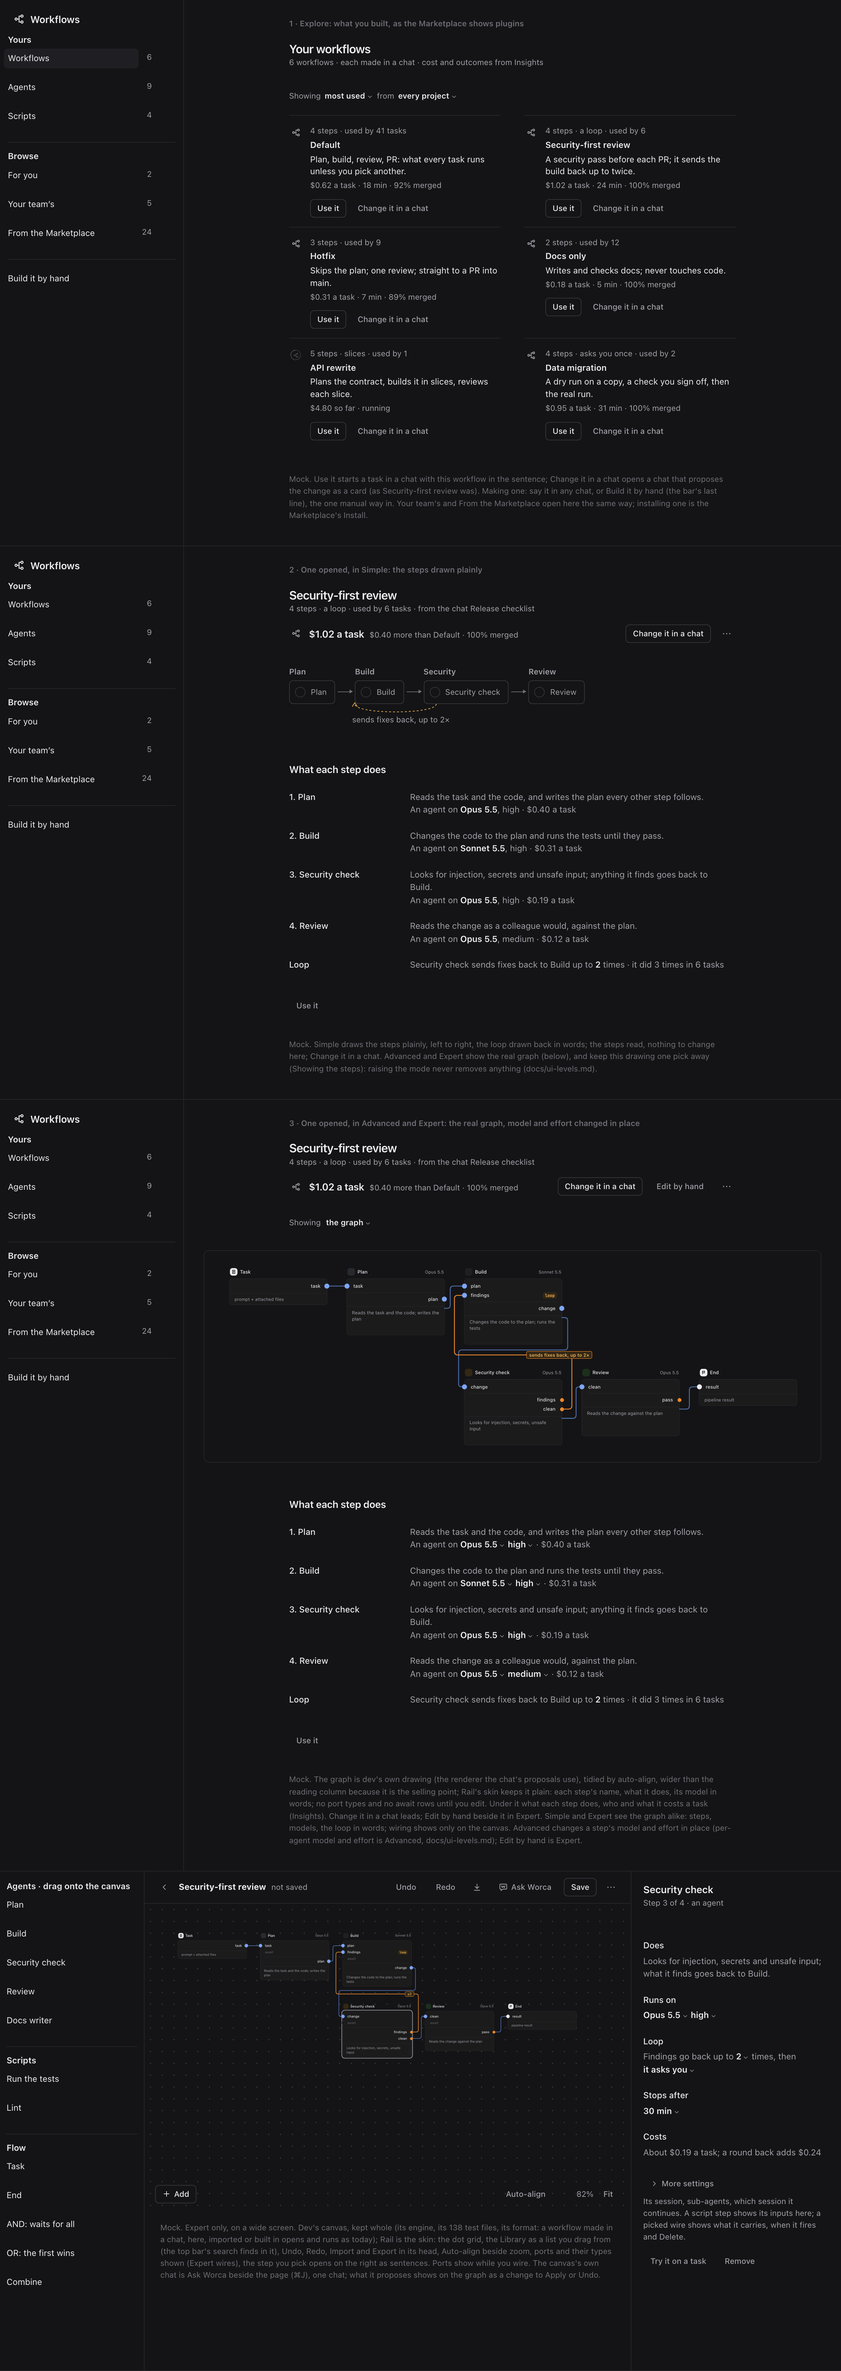
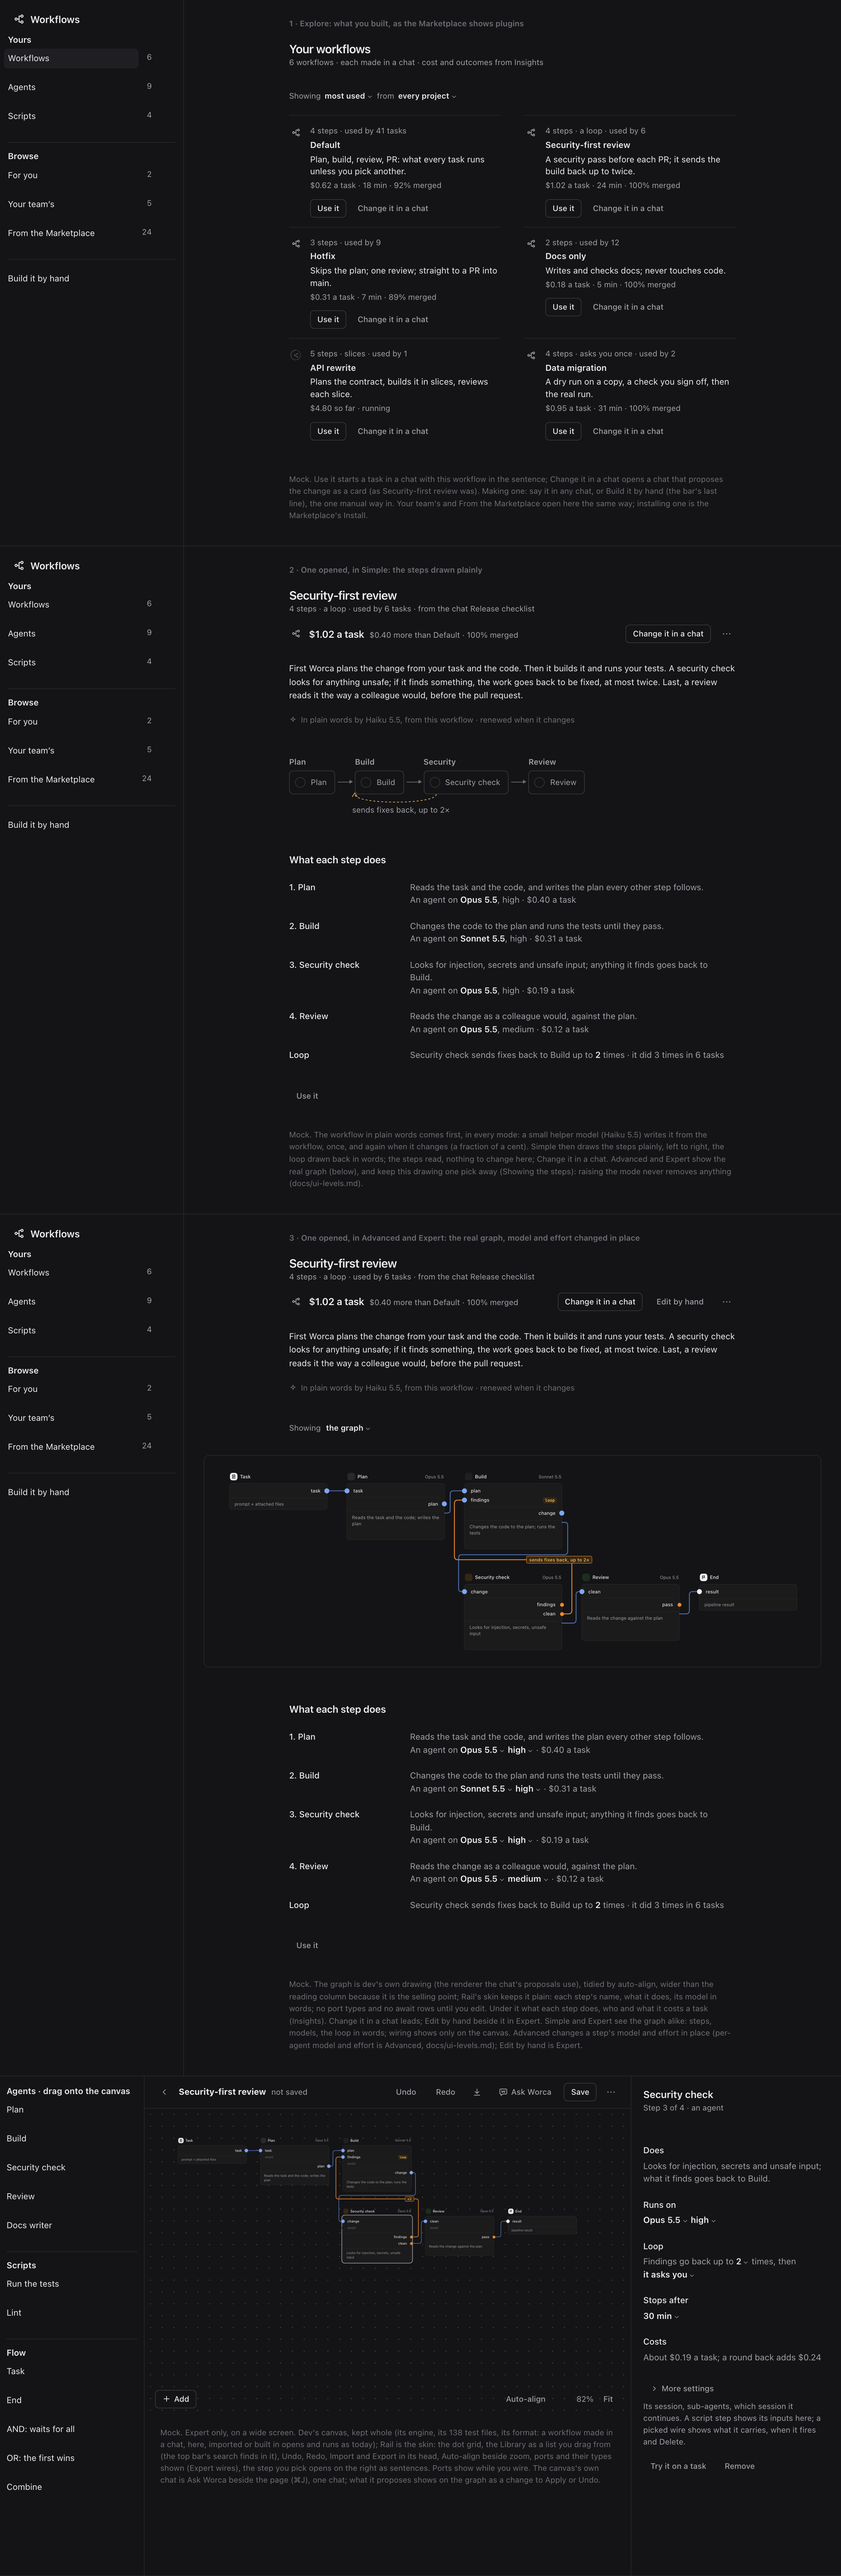
Wave 3: every workflow reads first in plain words, written by Haiku 5.5 from the workflow

diff --git a/plans/rail/mocks/wave-3/workflows-2.html b/plans/rail/mocks/wave-3/workflows-2.html
@@ -37,6 +37,7 @@
   .flow .wg-stage + .wg-stage::after{content:'';position:absolute;left:-8px;top:35px;border:3.5px solid transparent;border-left:5px solid var(--ink-3);}
   .flow .loop{position:absolute;bottom:2px;font-size:var(--fs-meta);color:var(--ink-2);}
   .flow .loop svg{position:absolute;bottom:16px;left:0;overflow:visible;}
+  .story{margin:14px 0 4px;font-size:var(--fs-body);line-height:1.6;color:var(--ink);} .story-by{margin:0 0 10px;font-size:var(--fs-meta);color:var(--ink-3);display:flex;gap:6px;align-items:center;}
   .tog{display:flex;align-items:center;gap:8px;margin:18px 0 0;font-size:var(--fs-meta);color:var(--ink-2);}
   .fr.ed{grid-template-columns:220px 1fr 320px;}
   .ed-top{display:flex;align-items:center;gap:8px;padding:10px 16px;border-bottom:1px solid var(--line);font-size:var(--fs-meta);color:var(--ink-2);}
@@ -75,15 +76,17 @@
   const flow = `<div class="flow">${R.workflowGraph({ label: 'Security-first review', stages: [
     { label: 'Plan', nodes: [{ key: 'p', name: 'Plan', state: 'next' }] }, { label: 'Build', nodes: [{ key: 'b', name: 'Build', state: 'next' }] },
     { label: 'Security', nodes: [{ key: 's', name: 'Security check', state: 'next' }] }, { label: 'Review', nodes: [{ key: 'r', name: 'Review', state: 'next' }] }] })}<span class="loop" style="left:96px"><svg width="132" height="20" aria-hidden="true"><path d="M128 2 C128 18 4 18 4 2" fill="none" stroke="var(--amber-ink)" stroke-dasharray="3 3"/><path d="M0 6 L4 0 L8 6" fill="none" stroke="var(--amber-ink)"/></svg>sends fixes back, up to 2×</span></div>`;
+  // the workflow in plain words: written by a small helper model from the workflow itself, renewed when it changes
+  const story = `<p class="story">First Worca plans the change from your task and the code. Then it builds it and runs your tests. A security check looks for anything unsafe; if it finds something, the work goes back to be fixed, at most twice. Last, a review reads it the way a colleague would, before the pull request.</p><p class="story-by">${R.icon('sparkle', 12)} In plain words by Haiku 5.5, from this workflow · renewed when it changes</p>`;
   const pk = (id, t, items) => R.sentencePicker({ id, text: t, items: items.map((v) => ({ id: v, text: v, checked: v === t })), chevron: R.icon('chevron', 10) });
   // each step: what it does, in plain words, then who does it and what it costs a task
   let edit = false;
   const step = (n, name, does, who, m, e, cost) => R.settingsRow({ name: `${n}. ${name}`, sentence: `${does}<br><span style="color:var(--ink-2)">${who} on ${edit ? `${pk(`m${n}`, m, ['Opus 5.5', 'Sonnet 5.5', 'Haiku 5.5'])} ${pk(`e${n}`, e, ['low', 'medium', 'high'])}` : `<b>${m}</b>, ${e}`} · ${cost} a task</span>` });
   const pageOf = (mode) => { edit = mode !== 'simple'; return `<div class="col convo-col" style="margin:0"><p class="cap">${mode === 'simple' ? '2 · One opened, in Simple: the steps drawn plainly' : '3 · One opened, in Advanced and Expert: the real graph, model and effort changed in place'}</p>${R.placeHead({ title: 'Security-first review', facts: '4 steps · a loop · used by 6 tasks · from the chat Release checklist', mark: wf(), word: '$1.02 a task', why: '$0.40 more than Default · 100% merged', action: R.button({ label: 'Change it in a chat', kind: '' }) + (mode === 'expert' ? R.button({ label: 'Edit by hand', kind: 'quiet' }) : ''), menu: R.moreMenu({ id: 'x', label: 'More', icon: R.icon('more', 16), open: false, items: [] }) })}
-    ${mode === 'simple' ? flow : `<div class="tog">Showing ${pk('tg', 'the graph', ['the graph', 'the steps'])}</div><div class="well skin view" id="gv-view"></div>`}
+    ${story}${mode === 'simple' ? flow : `<div class="tog">Showing ${pk('tg', 'the graph', ['the graph', 'the steps'])}</div><div class="well skin view" id="gv-view"></div>`}
     ${R.settingsSection({ title: 'What each step does', rows: step(1, 'Plan', 'Reads the task and the code, and writes the plan every other step follows.', 'An agent', 'Opus 5.5', 'high', '$0.40') + step(2, 'Build', 'Changes the code to the plan and runs the tests until they pass.', 'An agent', 'Sonnet 5.5', 'high', '$0.31') + step(3, 'Security check', 'Looks for injection, secrets and unsafe input; anything it finds goes back to Build.', 'An agent', 'Opus 5.5', 'high', '$0.19') + step(4, 'Review', 'Reads the change as a colleague would, against the plan.', 'An agent', 'Opus 5.5', 'medium', '$0.12') + R.settingsRow({ name: 'Loop', sentence: 'Security check sends fixes back to Build up to <b>2</b> times · it did 3 times in 6 tasks' }) })}
     <div class="acts">${R.button({ label: 'Use it', kind: 'quiet' })}</div>
-    ${mode === 'simple' ? '<p class="note">Mock. Simple draws the steps plainly, left to right, the loop drawn back in words; the steps read, nothing to change here; Change it in a chat. Advanced and Expert show the real graph (below), and keep this drawing one pick away (Showing the steps): raising the mode never removes anything (docs/ui-levels.md).</p>' : `<p class="note">Mock. The graph is dev's own drawing (the renderer the chat's proposals use), tidied by auto-align, wider than the reading column because it is the selling point; Rail's skin keeps it plain: each step's name, what it does, its model in words; no port types and no await rows until you edit. Under it what each step does, who and what it costs a task (Insights). Change it in a chat leads; Edit by hand beside it in Expert. Simple and Expert see the graph alike: steps, models, the loop in words; wiring shows only on the canvas. Advanced changes a step's model and effort in place (per-agent model and effort is Advanced, docs/ui-levels.md); Edit by hand is Expert.</p>`}</div>`; };
+    ${mode === 'simple' ? '<p class="note">Mock. The workflow in plain words comes first, in every mode: a small helper model (Haiku 5.5) writes it from the workflow, once, and again when it changes (a fraction of a cent). Simple then draws the steps plainly, left to right, the loop drawn back in words; the steps read, nothing to change here; Change it in a chat. Advanced and Expert show the real graph (below), and keep this drawing one pick away (Showing the steps): raising the mode never removes anything (docs/ui-levels.md).</p>' : `<p class="note">Mock. The graph is dev's own drawing (the renderer the chat's proposals use), tidied by auto-align, wider than the reading column because it is the selling point; Rail's skin keeps it plain: each step's name, what it does, its model in words; no port types and no await rows until you edit. Under it what each step does, who and what it costs a task (Insights). Change it in a chat leads; Edit by hand beside it in Expert. Simple and Expert see the graph alike: steps, models, the loop in words; wiring shows only on the canvas. Advanced changes a step's model and effort in place (per-agent model and effort is Advanced, docs/ui-levels.md); Edit by hand is Expert.</p>`}</div>`; };
   const pick = (t) => R.sentencePicker({ id: t, text: t, items: [], chevron: R.icon('chevron', 10) });
   const addMenu = R.compactMenu({ label: 'Add', items: [{ header: 'From your library' }, { id: 'a', text: 'Agent…', help: '9 yours, 24 more in the Marketplace' }, { id: 's', text: 'Script…', help: '4 yours' }, { sep: true }, { header: 'Flow' }, { id: 't', text: 'Task', help: 'Where the task comes in' }, { id: 'e', text: 'End', help: 'What it comes to' }, { id: 'and', text: 'AND', help: 'Waits for every input' }, { id: 'or', text: 'OR', help: 'Goes on with the first' }, { id: 'c', text: 'Combine', help: 'Joins inputs into one' }] });
   const editor = `<div><div class="ed-top">${R.button({ label: 'Back to Security-first review', kind: 'quiet', iconOnly: true, icon: R.icon('chevL', 14) })}<b>Security-first review</b><span>not saved</span><span class="sp"></span>${R.button({ label: 'Undo', kind: 'quiet' })}${R.button({ label: 'Redo', kind: 'quiet' })}${R.moreMenu({ id: 'ie', label: 'Import, Export', icon: R.icon('download', 14), open: false, items: [] })}${R.button({ label: 'Ask Worca', kind: 'quiet', icon: R.icon('ask-worca', 14) })}${R.button({ label: 'Save', kind: '' })}${R.moreMenu({ id: 'z', label: 'More', icon: R.icon('more', 16), open: false, items: [] })}</div>

diff --git a/plans/rail/wave-3.md b/plans/rail/wave-3.md
@@ -314,3 +314,5 @@ Decided (Emil, 8 Nov):
 - Simple draws a workflow plainly (its steps left to right, the loop drawn back in words); Advanced and Expert show the
   real graph by default and keep the plain drawing one pick away (Showing the graph / the steps), since raising the mode
   never removes anything. Edit by hand is Expert.
+- Every workflow reads first in plain words (Emil, 8 Nov): a small helper model (Haiku 5.5) writes a few sentences from
+  the workflow, once and again when it changes; shown above the drawing in every mode, said to be by Haiku.
